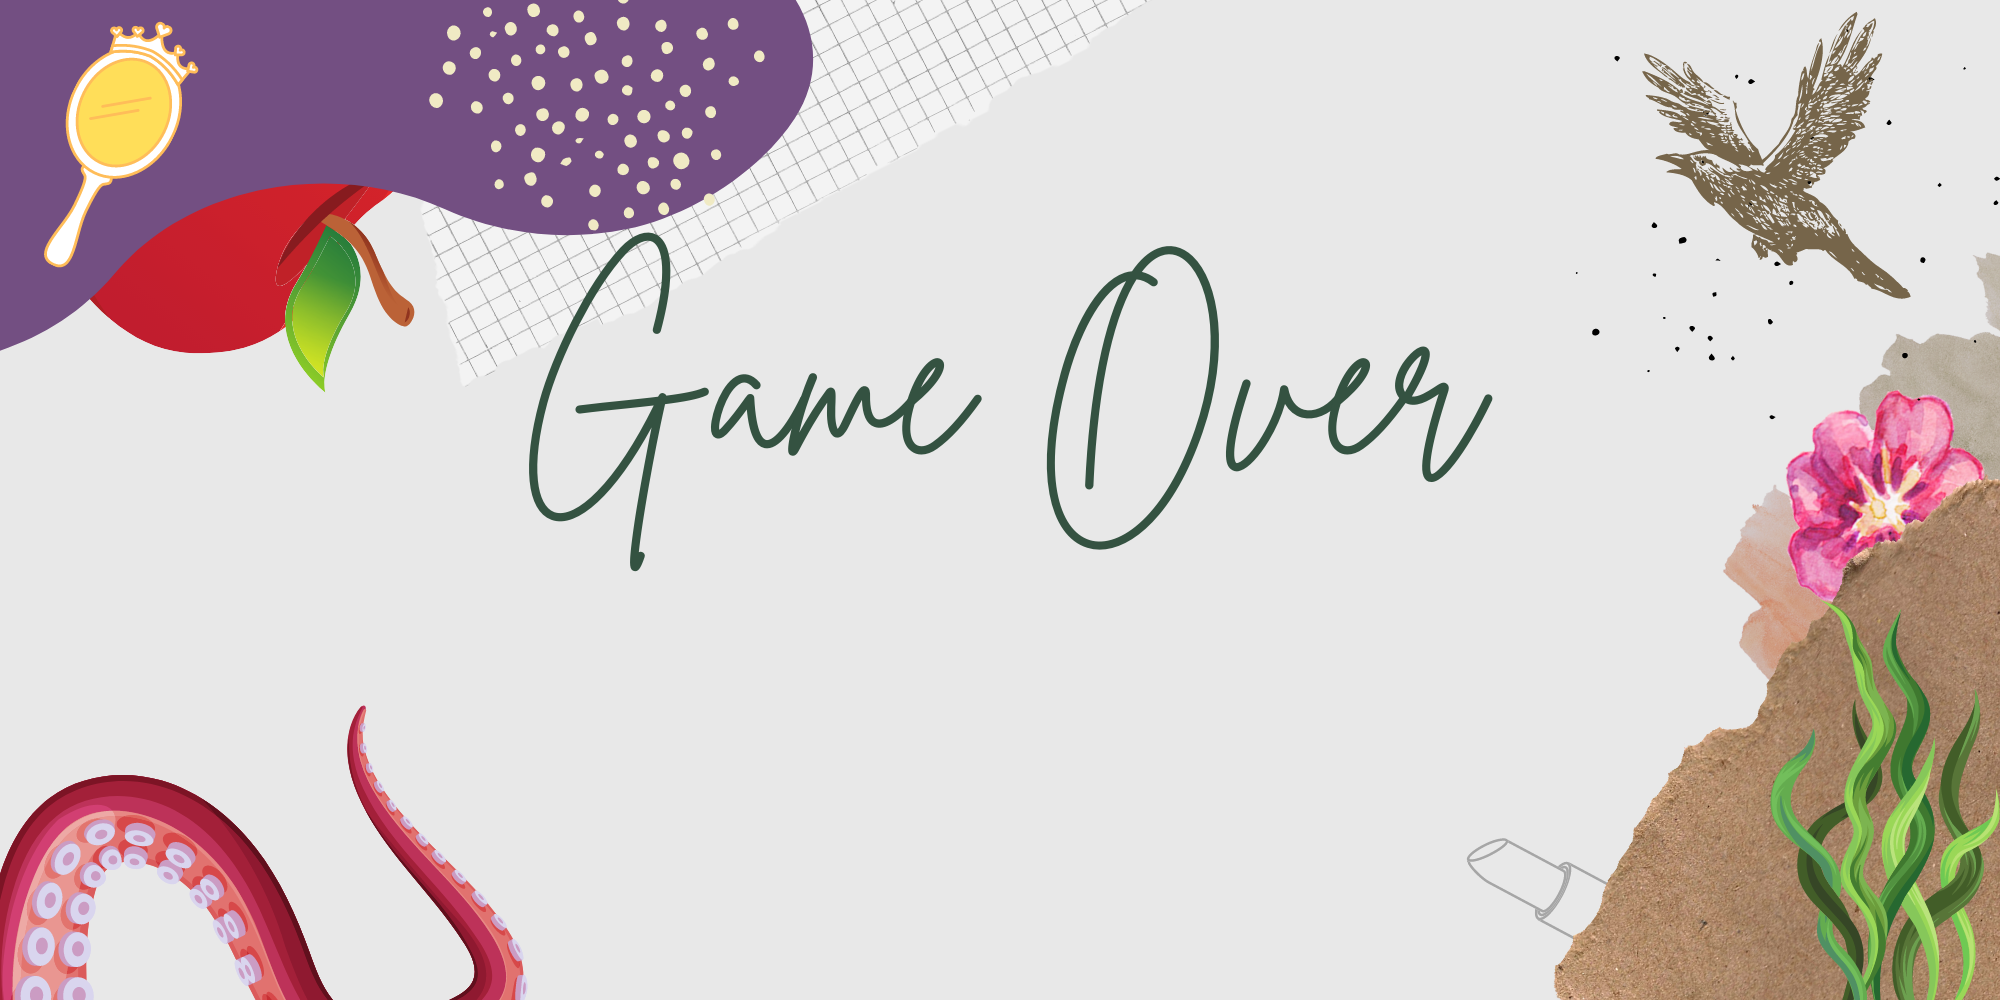
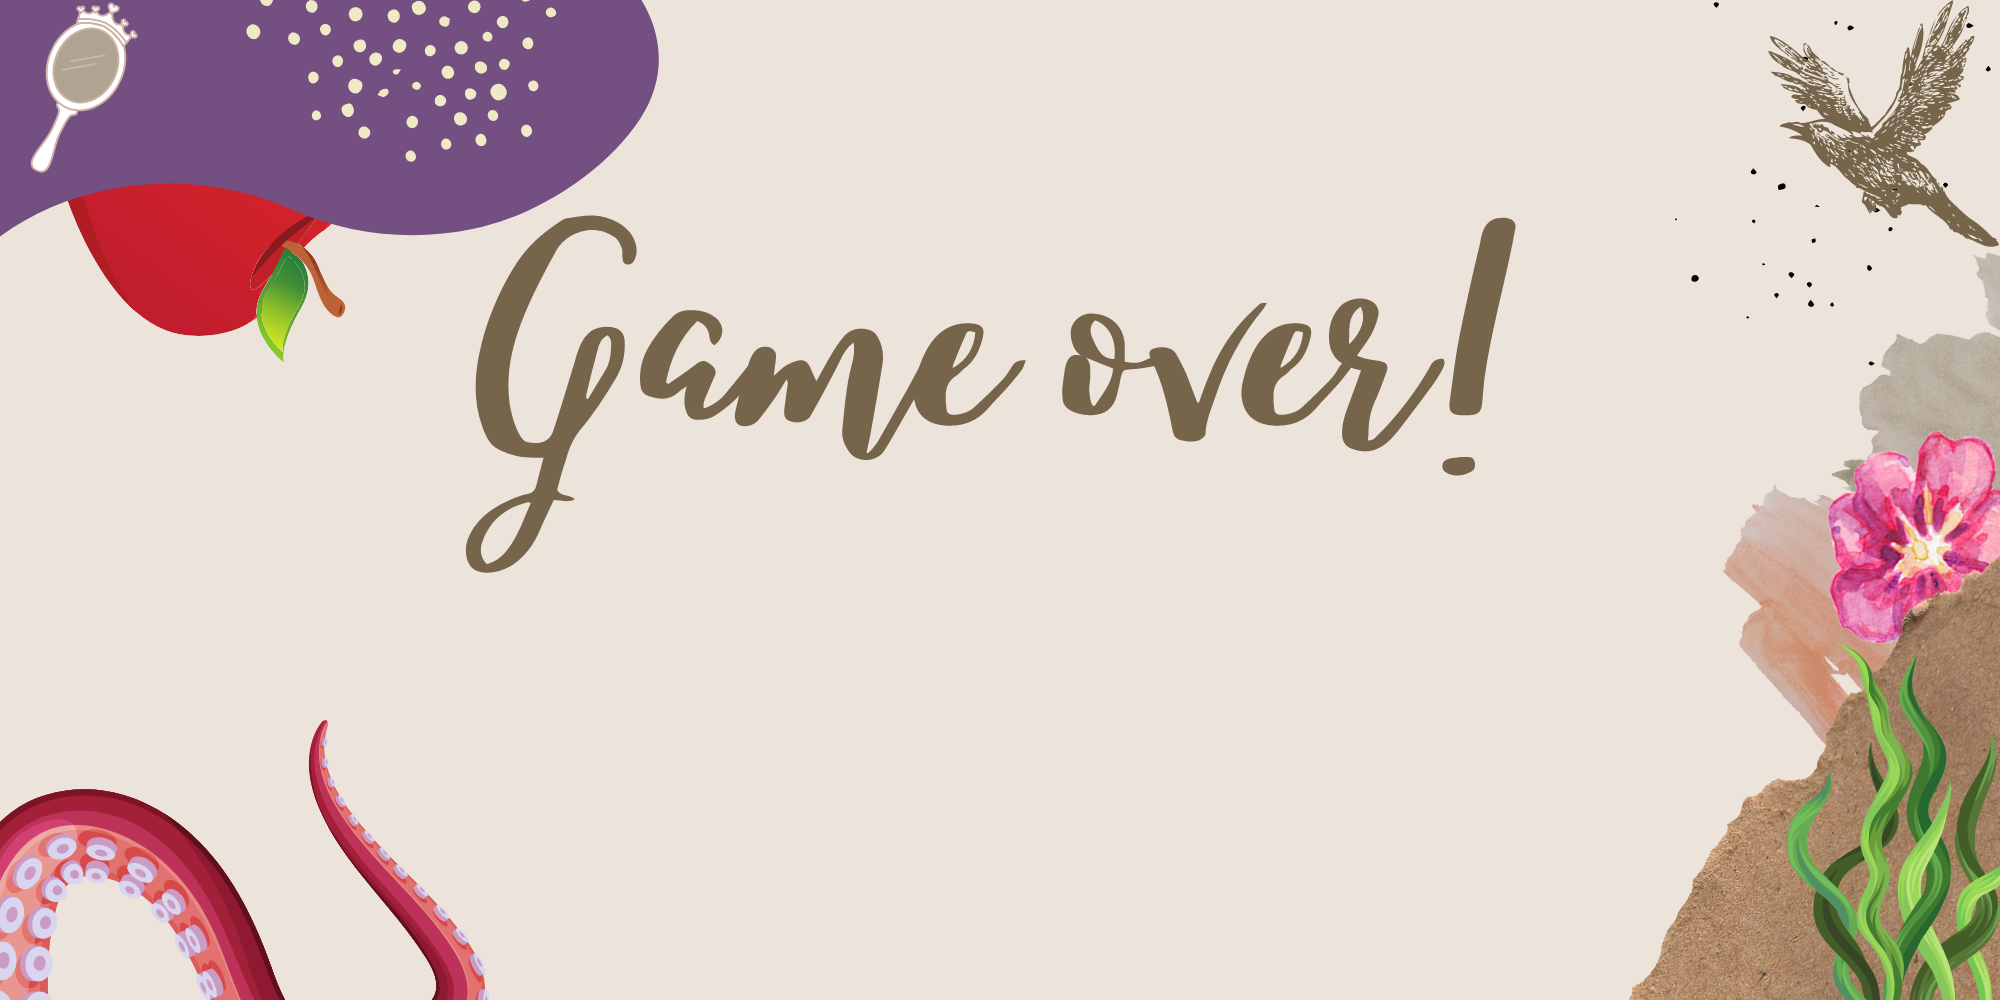
alterações media queries

diff --git a/style.css b/style.css
@@ -20,7 +20,7 @@ body {
 .title {
     font-family: 'Pacifico', cursive;
     font-size: 45px;
-    color: #656d4a;
+    color: #76654A;
     padding: 15px;
 }
 
@@ -29,7 +29,7 @@ body {
     text-align: center;
     font-family: 'Poppins', sans-serif;
     font-size: 20px;
-    color: #656d4a;
+    color: #76654A;
     margin: 70px 300px;
 }
 
@@ -43,7 +43,7 @@ button:hover {
     align-items: center;
     justify-content: center;
     padding: 25px;
-    color: #656d4a;
+    color: #76654A;
     font-family: 'Pacifico', cursive;
     font-size: 45px;
 }
@@ -62,7 +62,7 @@ button:hover {
 
 .imagem {
     border-radius: 100px;
-    border: 5px solid #656d4a;
+    border: 5px solid #76654A;
 }
 
 .imagem:hover{
@@ -80,5 +80,20 @@ button:hover {
     font-family: 'Poppins', sans-serif;
     font-size: 20px;
     font-weight: bold;
-    color: #656d4a;
+    color: #76654A;
 }
+
+@media (max-width: 700px){
+
+    body {
+        background-image: url("./imagens/bg.png");
+        background-color:  #ECE4DB;
+    }
+
+    .main {
+        display: flex;
+        align-items: center;
+        flex-direction: column;
+        padding: 1%;
+        margin: 5% 100px;
+    }

diff --git a/ursula/faseursula1.html b/ursula/faseursula1.html
@@ -20,8 +20,8 @@
     <div class="main">
         <h1 class="fase">Fase 1</h1>
 
-        <p class="text">&nbsp Ursula sempre teve o sonho de paricipar do The Voice Aquático, então, depois de muito treino, resolveu se inscrever no concurso.</p>
-        <p class="text">&nbsp Após alguns dias, ela recebeu a notícia de que tinha passado para a próxima fase! Porém, descobriu que Ariel seria uma das juradas, e bem, ela sabe muito bem que a história das duas não é das melhores...</p>
+        <p class="text">&nbsp Ursula sempre teve o sonho de participar do The Voice Aquático, então, depois de muito treino, resolveu se inscrever no concurso.</p>
+        <p class="text">&nbsp Após alguns dias, ela recebeu a notícia de que tinha passado para a próxima fase! Porém, descobriu que Ariel seria uma das juradas, e ela sabe muito bem que a história das duas não é das melhores...</p>
         <p class="text">&nbsp Só que Ursula não quer briga, quer apenas realizar o seu sonho de ser aclamada na música, mas tem medo de ser prejudicada. Sendo assim, ela deve:</p>
 
         <p class="text">1- Desistir do concurso e tentar outro ano.</p>

diff --git a/malevola/fasemalevola2.html b/malevola/fasemalevola2.html
@@ -21,8 +21,8 @@
         <h1 class="fase">Fase 2</h1>
 
         <p class="text">&nbsp Ufa! Por enquando deu certo e Aurora não percebeu o seu sumiço, enão continua sua caminhada quando ela avista a menina novamente.</p>
-        <p class="text">&nbsp Que chatice, Malévola só queria caminhar em paz... Então Aurora se aproxima, não percebe que estava incomodando e continua com o mesmo papo. E o pior, ela pega na mão da fada verde, pois, gosta muito de sua companhia.</p>
-<p class="text">Malévola entende. Ela jura que entende, mas sua caminhada é sagrada, então tenta dar mais um sumiço.</p>
+        <p class="text">&nbsp Que chatice, Malévola só queria caminhar em paz... Então Aurora se aproxima, não percebe que estava    incomodando e continua com o mesmo papo. E o pior, ela pega na mão da fada verde, pois, gosta muito de sua companhia.</p>
+        <p class="text">Malévola entende. Ela jura que entende, mas sua caminhada é sagrada, então tenta dar mais um sumiço.</p>
 
         <p class="text">1- Malévola sai correndo sem direção.</p>
         <p class="text">2- Empurra a menina e vaza.</p>

diff --git a/gameover/gameover.css b/gameover/gameover.css
@@ -36,3 +36,40 @@ body {
     background-color: #b384c4cd;
     transition: 3s;
 }
+
+@media (max-width: 700px){
+
+        body {
+            background-image: url(gameover.png);
+            background-color:  #ECE4DB;
+        }
+    
+        .main {
+            display: flex;
+            align-items: center;
+            flex-direction: column;
+            padding: 1%;
+            margin: 5% 100px;
+        }
+
+        .botao {
+            display: flex;
+            justify-content: center;
+            align-items: center;
+            text-align: center;
+            background-color: #63295edc;
+            color:#F2E9BD;
+            text-decoration: none;
+            padding: 18px 31px;
+            margin-top: 50%;
+            font-family: 'Teko', sans-serif;
+            font-size: 25px;
+            font-weight: 20px;
+            width: 150px;
+            height: 20px;
+            cursor: pointer;
+            box-shadow: none;
+            border: none;
+            border-radius: 30px;
+    }
+}

diff --git a/malevola/fasemalevola1.html b/malevola/fasemalevola1.html
@@ -21,7 +21,7 @@
         <h1 class="fase">Fase 1</h1>
 
         <p class="text">&nbsp Malévola acorda, toma seu café da manhã e vai fazer sua caminhada matinal, e do nada é surpreendida com a presença de Aurora. Desde que a paz reinou, a menina não sai do seu pé.</p>
-        <p class="text">&nbsp Aurora começa comtas as mesmas coisas, as mesmas fofocas de sempre, então, Malévola decide dar um sumiço.</p>
+        <p class="text">&nbsp Aurora começa contar as mesmas coisas, as mesmas fofocas de sempre, então, Malévola decide dar um sumiço.</p>
 
         <p class="text">1- Decide projetar uma roca para distrair a garota.</p>
         <p class="text">2- Simplesmente desaparece entre as árvores.</p>

diff --git a/ursula/jogoursula.css b/ursula/jogoursula.css
@@ -51,3 +51,19 @@ body {
     cursor: pointer;
 }
 
+@media (max-width: 700px){
+
+    body {
+        background-image: url(Ursulat.png);
+        background-color:  #ECE4DB;
+    }
+    
+    .main {
+        display: flex;
+        align-items: center;
+        flex-direction: column;
+        padding: 1%;
+        margin: 5% 100px;
+        }
+    }
+

diff --git a/rainhama/jogorainha.css b/rainhama/jogorainha.css
@@ -51,3 +51,19 @@ body {
     cursor: pointer;
 }
 
+@media (max-width: 700px){
+
+    body {
+        background-image: url(QueenT.png);
+        background-color:  #ECE4DB;
+    }
+    
+    .main {
+        display: flex;
+        align-items: center;
+        flex-direction: column;
+        padding: 1%;
+        margin: 5% 100px;
+        }
+    }
+

diff --git a/malevola/jogomalevola.css b/malevola/jogomalevola.css
@@ -50,3 +50,19 @@ body {
     transition: ease-in 0.5s;
     cursor: pointer;
 }
+
+@media (max-width: 700px){
+
+body {
+    background-image: url(Malevolat.png);
+    background-color:  #ECE4DB;
+}
+
+.main {
+    display: flex;
+    align-items: center;
+    flex-direction: column;
+    padding: 1%;
+    margin: 5% 100px;
+    }
+}

diff --git a/vitoria/vitoria.css b/vitoria/vitoria.css
@@ -8,3 +8,16 @@ body {
     background-repeat: no-repeat;
     background-size: 100%;
 }
+
+body {
+    background-image: url(vitoria.png);
+    background-color:  #ECE4DB;
+}
+
+.main {
+    display: flex;
+    align-items: center;
+    flex-direction: column;
+    padding: 1%;
+    margin: 5% 100px;
+}
